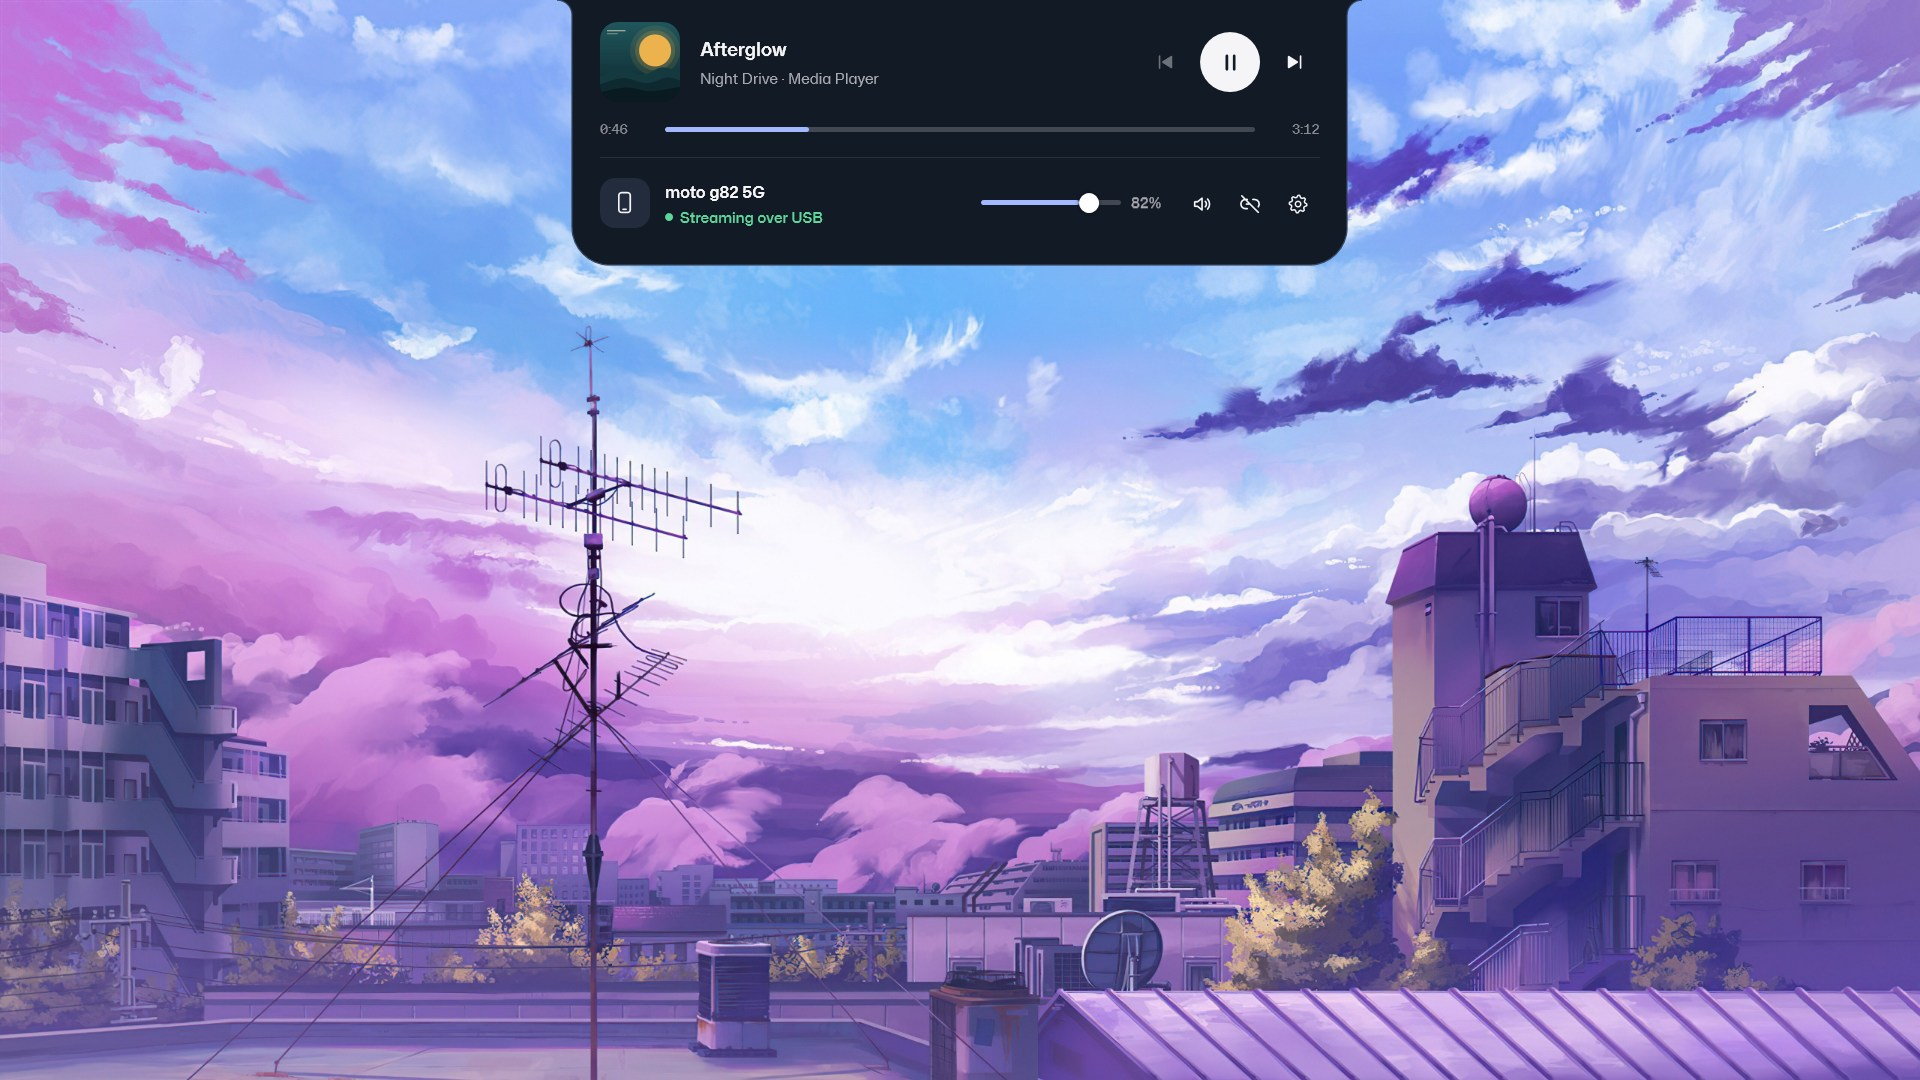
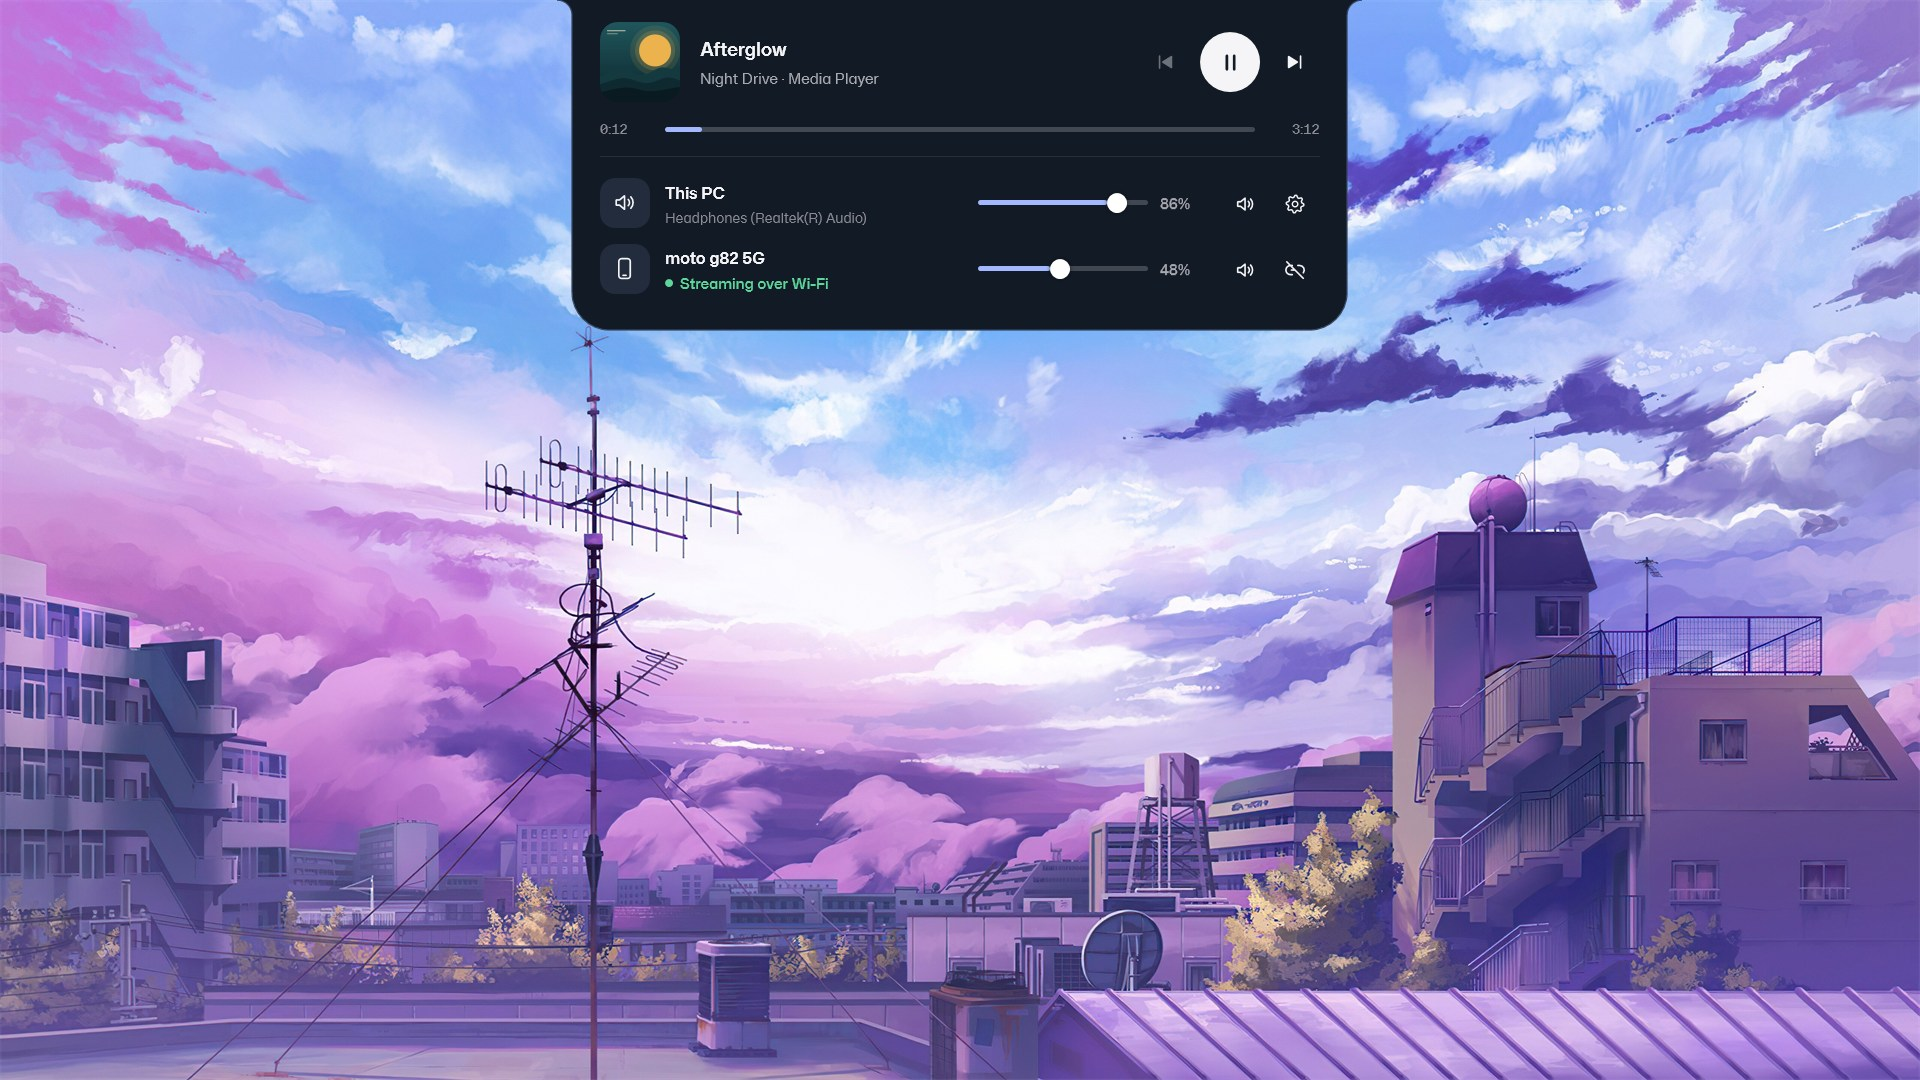
README: desktop screenshots for 0.5
* [x] New desktop shots of the notch, open and closed: This PC's volume and the phone streaming over Wi-Fi
* [x] Open-notch caption and alt text mention the PC's volume and Wi-Fi

Changed region(s): [[0.2812, 0.1528, 0.7188, 0.3056], [0.5625, 0.1833, 0.6875, 0.2139], [0.375, 0.0917, 0.4062, 0.1222]]

diff --git a/README.md b/README.md
@@ -18,9 +18,9 @@ with the song, cover art and controls on both screens.
 
 <br>
 
-<img src="docs/screenshots/windows-desktop-open.jpg" width="100%" alt="A Windows desktop with the Sonora notch open at the top edge: the playing track with its controls, and a phone streaming over USB">
+<img src="docs/screenshots/windows-desktop-open.jpg" width="100%" alt="A Windows desktop with the Sonora notch open at the top edge: the playing track with its controls, this PC's volume, and a phone streaming over Wi-Fi">
 
-<sub>The notch on Windows, open: what's playing, and the phone it's streaming to.</sub>
+<sub>The notch on Windows, open: what's playing, the PC's volume, and the phone it's streaming to.</sub>
 
 <br><br>
 
